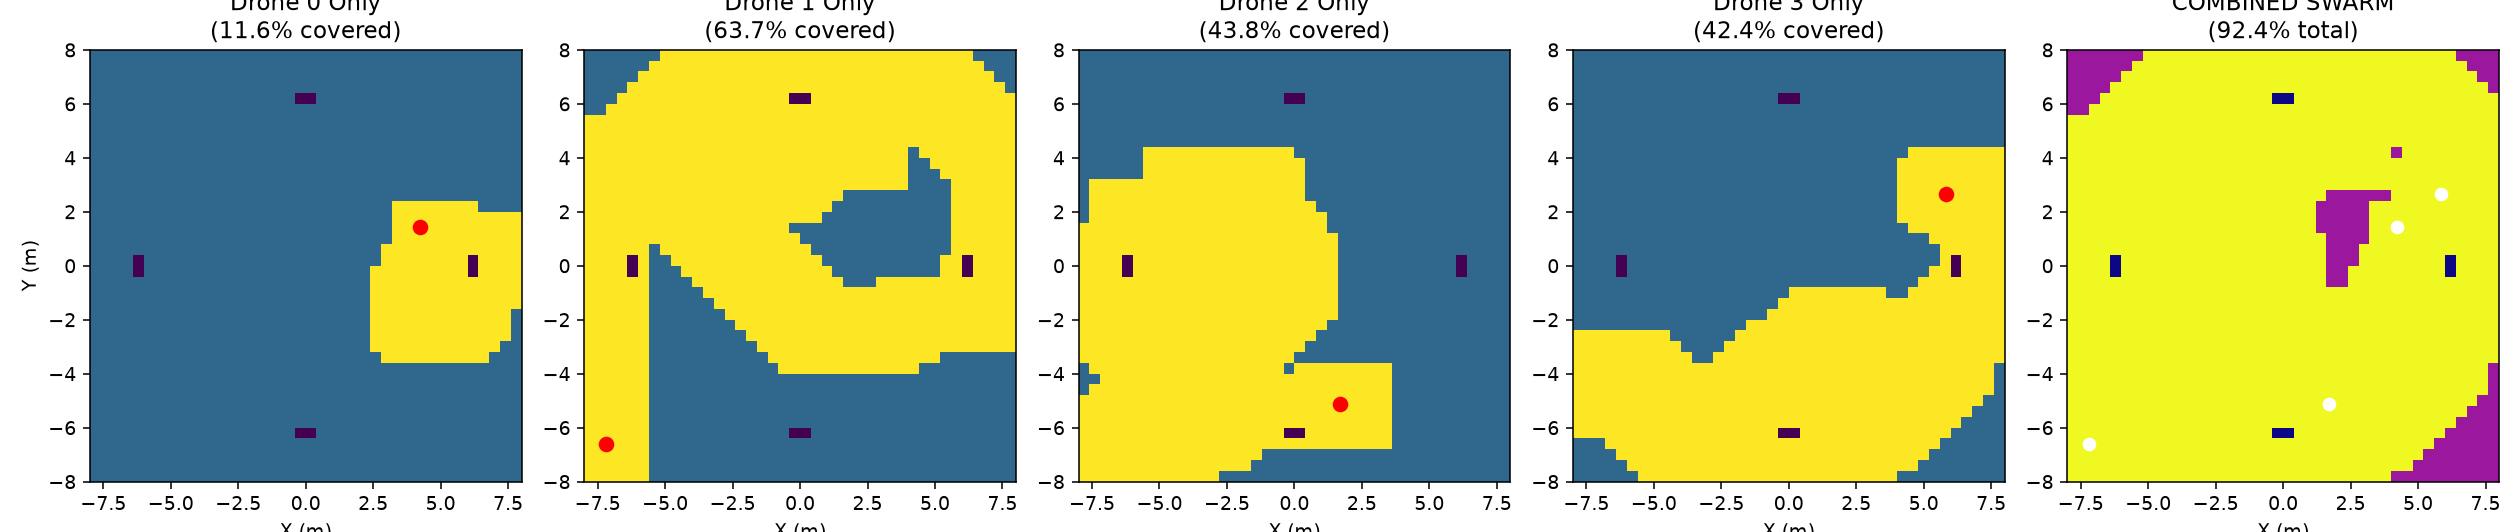
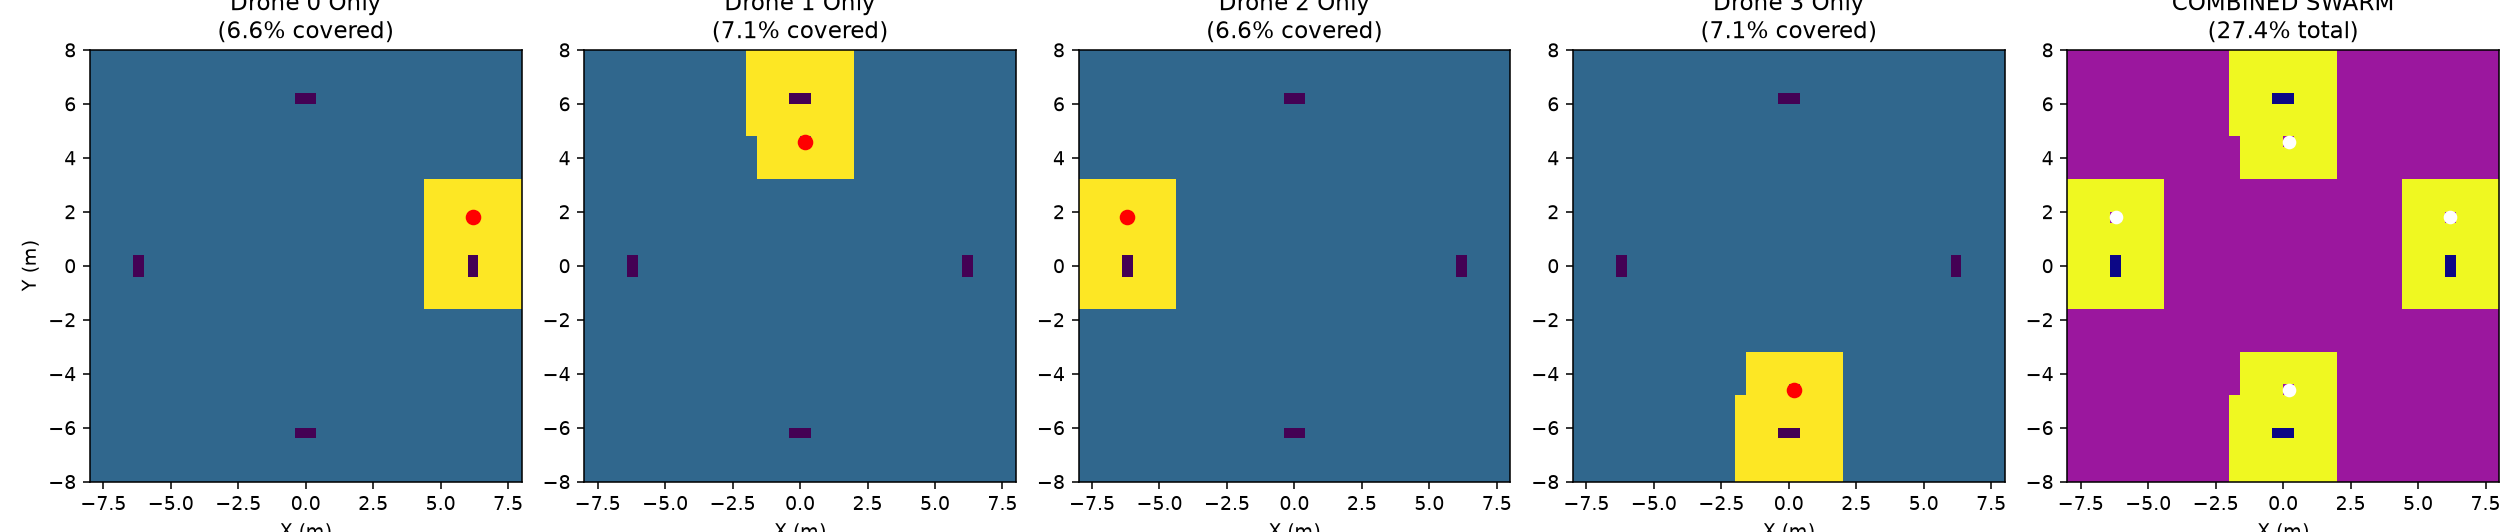
added nearest unvisited

diff --git a/swarm_coverage.py b/swarm_coverage.py
@@ -576,6 +576,91 @@ def spiral_inward_coverage(
     )
 
 
+@register_algorithm("nearest_unvisited")
+def nearest_unvisited_coverage(
+    ego: DroneState, neighbors: List[DroneState], grid: CoverageGrid
+) -> np.ndarray:
+    """
+    Baseline 1: Greedy Nearest Unvisited Cell
+    Ignores neighbors completely and simply flies to the closest unvisited cell.
+    """
+    all_cell_positions = grid.cell_centers
+    ego_uncertainty_map = grid.drone_belief_uncertainty[ego.id]
+
+    # Find all free cells that have not been visited yet
+    unvisited_mask = (ego_uncertainty_map > 0.25) & grid.free_cells
+
+    # If everything is already visited, just hover in place
+    if not np.any(unvisited_mask):
+        return np.array([float(ego.pos[0]), float(ego.pos[1]), 2.4], dtype=np.float64)
+
+    unvisited_positions = all_cell_positions[unvisited_mask]
+    distances_to_ego = np.linalg.norm(unvisited_positions - ego.pos[:2], axis=1)
+
+    # Pick the closest unvisited cell
+    closest_cell_xy = unvisited_positions[int(np.argmin(distances_to_ego))]
+    safe_target_xy = apply_obstacle_clearance(closest_cell_xy, grid)
+    # safe_target_xy = closest_cell_xy
+
+    return np.array(
+        [float(safe_target_xy[0]), float(safe_target_xy[1]), 2.4], dtype=np.float64
+    )
+
+
+@register_algorithm("lawnmower")
+def lawnmower_coverage(
+    ego: DroneState, neighbors: List[DroneState], grid: CoverageGrid
+) -> np.ndarray:
+    """
+    Baseline 2: Strip-Based Lawnmower (Boustrophedon) Sweep
+    Divides the Y-axis into horizontal bands among active drones and sweeps
+    left-to-right on even rows, right-to-left on odd rows.
+    """
+    all_cell_positions = grid.cell_centers
+    ego_uncertainty_map = grid.drone_belief_uncertainty[ego.id]
+
+    # 1. Assign each active drone a horizontal band along the Y-axis
+    active_ids = sorted([ego.id] + [nb.id for nb in neighbors if nb.active])
+    my_band_index = active_ids.index(ego.id)
+    num_bands = len(active_ids)
+
+    half_size = grid.size * 0.5
+    band_height = grid.size / num_bands
+    y_min = -half_size + (my_band_index * band_height)
+    y_max = y_min + band_height
+
+    # 2. Filter unvisited cells inside ego's horizontal band (fallback to whole map if band is done)
+    in_band_mask = (
+        (all_cell_positions[:, 1] >= y_min)
+        & (all_cell_positions[:, 1] < y_max)
+        & (ego_uncertainty_map > 0.25)
+        & grid.free_cells
+    )
+    if not np.any(in_band_mask):
+        in_band_mask = (ego_uncertainty_map > 0.25) & grid.free_cells
+    if not np.any(in_band_mask):
+        return np.array([float(ego.pos[0]), float(ego.pos[1]), 2.4], dtype=np.float64)
+
+    cand_pts = all_cell_positions[in_band_mask]
+
+    # 3. Sort cells into a snake/lawnmower order:
+    # Group by Y row (rounded to 0.5m), then alternate X direction every row
+    row_indices = np.round((cand_pts[:, 1] + half_size) / 0.8).astype(int)
+    min_row = int(np.min(row_indices))
+    row_pts = cand_pts[row_indices == min_row]
+
+    # Even rows sweep left-to-right (min X); odd rows sweep right-to-left (max X)
+    if min_row % 2 == 0:
+        next_cell_xy = row_pts[int(np.argmin(row_pts[:, 0]))]
+    else:
+        next_cell_xy = row_pts[int(np.argmax(row_pts[:, 0]))]
+
+    safe_target_xy = apply_obstacle_clearance(next_cell_xy, grid)
+    return np.array(
+        [float(safe_target_xy[0]), float(safe_target_xy[1]), 2.4], dtype=np.float64
+    )
+
+
 # =====================================================================
 # 3. LIVE VIEWER OVERLAY: RENDER ASSIGNED TERRITORY ON MUJOCO FLOOR
 # =====================================================================
